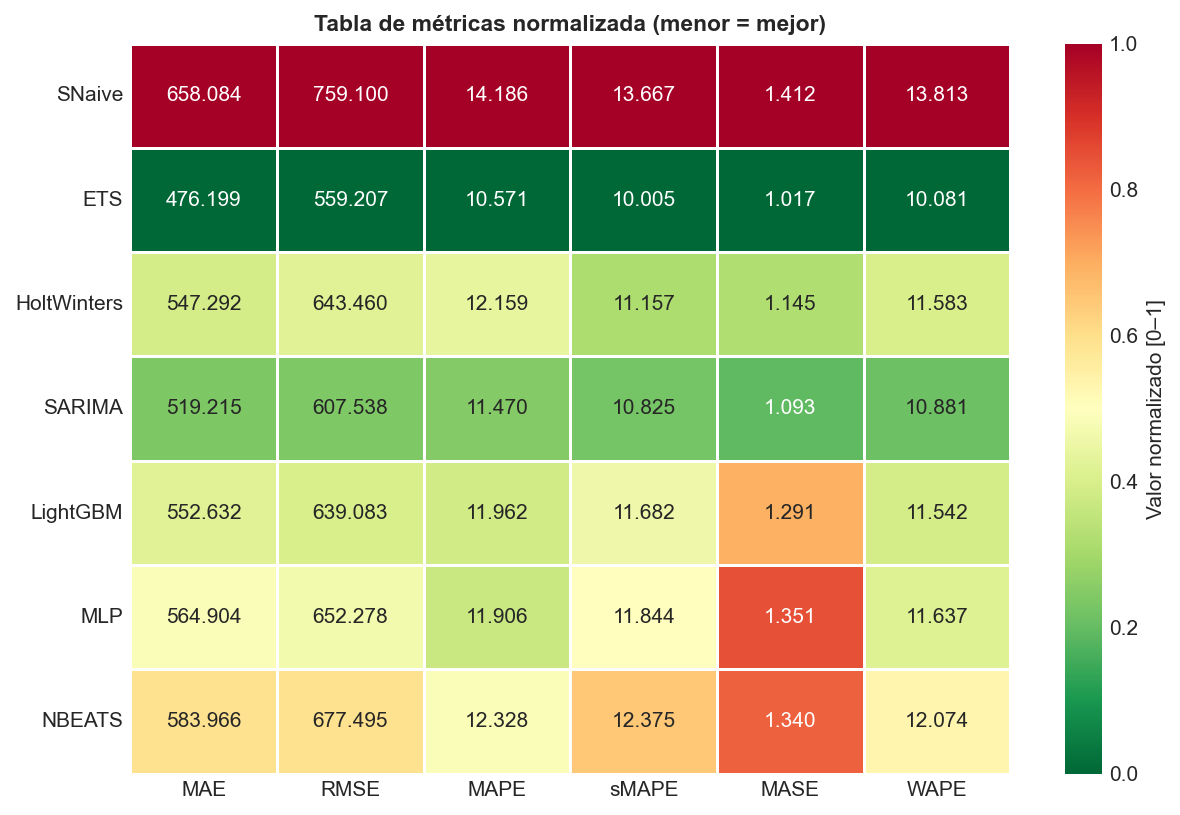
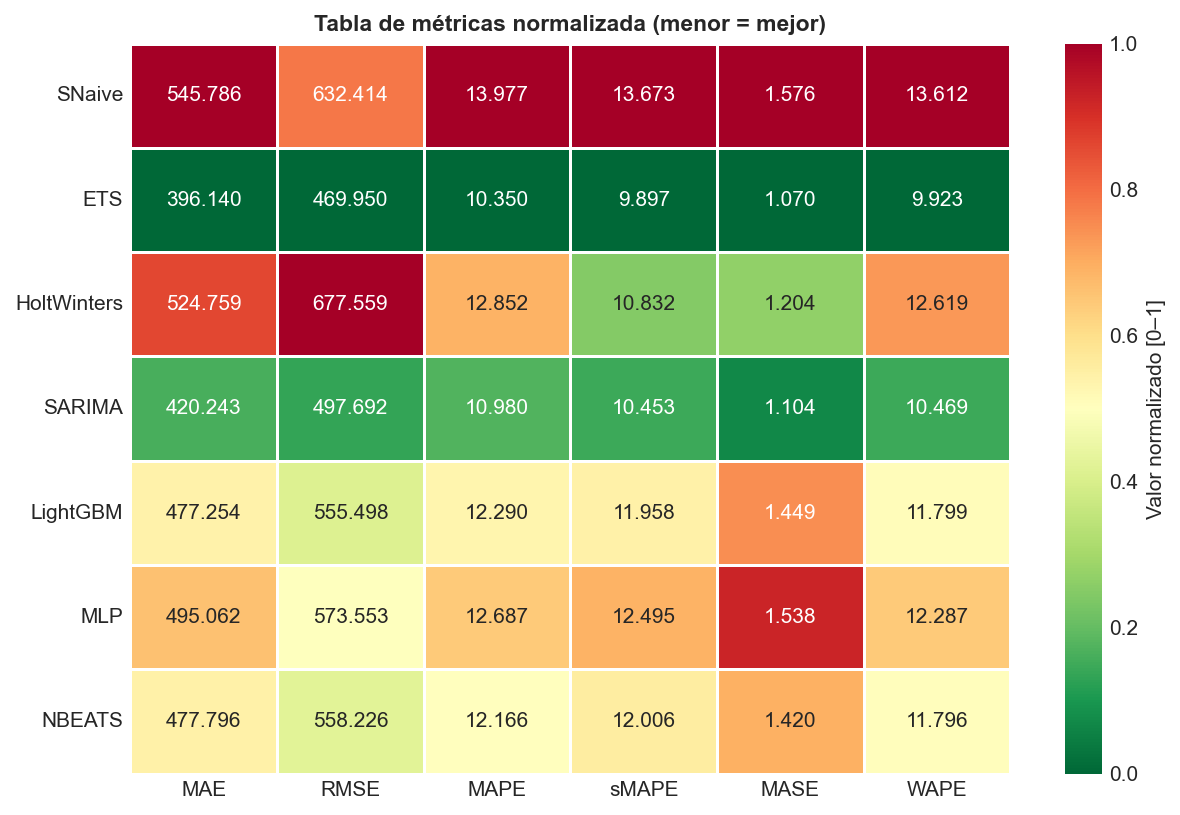
Entrega 3: bootstrap CI, n_series=200, figuras actualizadas y README
- src/evaluation.py: nueva función bootstrap_smape_diff_ci() — IC percentil
  bootstrap 95 % (B=1000, alpha=0.05) para la diferencia pareada por serie
  sMAPE(modelo) − sMAPE(SNaive); unidad de remuestreo: serie (N=200).
- src/config.py: n_series por defecto 200 (ajuste por coste computacional).
- run_experiment.py: integra bootstrap CI al pipeline; referencia SNaive
  dinámica (calculada desde los resultados del experimento); exporta
  results/tables/resultados_bootstrap_ci.csv automáticamente.
- results/tables/resultados_bootstrap_ci.csv: IC al 95 % para los 7 modelos;
  todos los modelos mejoran al baseline con significación estadística.
- results/figures/fig02-05.png: figuras regeneradas con N=200 series.
- README.md: tabla de resultados principales con IC bootstrap; sección de
  métricas actualizada; estructura del repositorio actualizada.
- .gitignore: excluye directorios tfm_unpacked_*, ~$*.docx y versiones
  intermedias de la memoria Word.

diff --git a/run_experiment.py b/run_experiment.py
@@ -4,7 +4,7 @@ Alternativa al notebook para entornos donde Jupyter no está disponible.
 Genera los mismos CSV y figuras que notebooks/main.ipynb.
 
 Uso:
-    python run_experiment.py [--n-series 400] [--no-dl] [--fast]
+    python run_experiment.py [--n-series 200] [--no-dl] [--fast]
 """
 
 from __future__ import annotations
@@ -26,7 +26,7 @@ from tqdm import tqdm
 from src.config import CONFIG, SEED, TABLES_DIR, FIGURES_DIR
 from src.utils import set_global_seed, get_logger
 from src.backtesting import generate_folds, split_series, verify_no_leakage
-from src.evaluation import compute_all
+from src.evaluation import compute_all, bootstrap_smape_diff_ci
 from src.data_loader import load_m4_finance
 from src.preprocessor import (
     filter_by_min_length, stratified_subsample,
@@ -218,9 +218,10 @@ def main():
             print(f"  {m}={row[m+'_mean']:.3f}±{row[m+'_std']:.3f}", end="")
         print()
 
-    # Criterios de éxito
-    SNAVE_REF = 14.45
-    print(f"\n=== CRITERIOS DE ÉXITO (referencia SNaive: {SNAVE_REF}%) ===\n")
+    # Criterios de éxito — referencia dinámica desde los resultados del experimento
+    snv_row = numeric_summary[numeric_summary["model"] == "SNaive"]
+    SNAVE_REF = float(snv_row["sMAPE_mean"].values[0]) if len(snv_row) > 0 else float("nan")
+    print(f"\n=== CRITERIOS DE ÉXITO (referencia SNaive: {SNAVE_REF:.3f}%) ===\n")
     print(f"{'Modelo':<15} {'sMAPE':>9} {'Delta(pp)':>10} {'MASE':>8} {'CV%':>7} {'Supera?':>9}")
     print("-" * 60)
     for _, row in numeric_summary.iterrows():
@@ -231,6 +232,61 @@ def main():
         cv = s_std / s_mean * 100 if s_mean > 0 else float("nan")
         supera = "SÍ" if diff >= 1.0 else ("marginal" if diff > 0 else "NO")
         print(f"{row['model']:<15} {s_mean:>9.3f} {diff:>+8.3f} {mase:>8.3f} {cv:>7.1f} {supera:>9}")
+
+    # Bootstrap CI al 95 % — diferencia pareada por serie: sMAPE(modelo) − sMAPE(SNaive)
+    # Unidad de remuestreo: serie (N=200). Método: percentil bootstrap, B=1000, SEED=42.
+    logger.info("Calculando IC bootstrap (B=1000, alpha=0.05)...")
+
+    def _series_smape_means(df: pd.DataFrame, model: str) -> pd.Series:
+        """sMAPE medio por serie para un modelo dado."""
+        sub = df[df["model"] == model][["series_idx", "sMAPE"]].dropna()
+        return sub.groupby("series_idx")["sMAPE"].mean()
+
+    snv_means = _series_smape_means(df_all, "SNaive")
+    bootstrap_rows = []
+    for model in present:
+        if model == "SNaive":
+            bootstrap_rows.append({
+                "model": model,
+                "diff_mean": 0.0,
+                "ci_lower": 0.0,
+                "ci_upper": 0.0,
+                "significant": False,
+                "n_series": len(snv_means),
+            })
+            continue
+        model_means = _series_smape_means(df_all, model)
+        common_idx = snv_means.index.intersection(model_means.index)
+        if len(common_idx) < 2:
+            logger.warning("  %s: series comunes insuficientes para bootstrap (%d)", model, len(common_idx))
+            continue
+        ci = bootstrap_smape_diff_ci(
+            model_means[common_idx].values,
+            snv_means[common_idx].values,
+            B=1000,
+            alpha=0.05,
+            seed=SEED,
+        )
+        ci["model"] = model
+        bootstrap_rows.append(ci)
+        sign_str = "SIGNIFICATIVO" if ci["significant"] else "no significativo"
+        logger.info(
+            "  %s: diff=%.3f pp  IC95=[%.3f, %.3f]  %s",
+            model, ci["diff_mean"], ci["ci_lower"], ci["ci_upper"], sign_str,
+        )
+
+    df_bootstrap = pd.DataFrame(bootstrap_rows)[
+        ["model", "diff_mean", "ci_lower", "ci_upper", "significant", "n_series"]
+    ]
+    df_bootstrap.to_csv(TABLES_DIR / "resultados_bootstrap_ci.csv", index=False)
+    logger.info("Bootstrap CI exportado a: %s", TABLES_DIR / "resultados_bootstrap_ci.csv")
+
+    print("\n=== INTERVALOS DE CONFIANZA BOOTSTRAP al 95 % (modelo - SNaive, pp) ===\n")
+    print(f"{'Modelo':<15} {'Diff(pp)':>10} {'IC_lower':>10} {'IC_upper':>10} {'Significativo':>14}")
+    print("-" * 65)
+    for _, row in df_bootstrap.iterrows():
+        sig = "SÍ" if row["significant"] else "NO"
+        print(f"{row['model']:<15} {row['diff_mean']:>+10.3f} {row['ci_lower']:>+10.3f} {row['ci_upper']:>+10.3f} {sig:>14}")
 
     # Generar figuras
     logger.info("Generando figuras...")

diff --git a/src/evaluation.py b/src/evaluation.py
@@ -162,6 +162,84 @@ def wape(y_true: ArrayLike, y_pred: ArrayLike) -> float:
     return float(np.sum(np.abs(yt - yp)) / total * 100.0)
 
 
+def bootstrap_smape_diff_ci(
+    smape_model: ArrayLike,
+    smape_reference: ArrayLike,
+    B: int = 1000,
+    alpha: float = 0.05,
+    seed: int | None = None,
+) -> dict[str, float]:
+    r"""IC bootstrap percentil para la diferencia media sMAPE(modelo) − sMAPE(referencia).
+
+    Calcula el intervalo de confianza al nivel ``1 − alpha`` mediante el método
+    de percentil bootstrap (Efron & Tibshirani, 1993) sobre la diferencia pareada
+    por serie entre el modelo evaluado y la referencia (Seasonal Naïve).
+
+    Cada elemento de las entradas representa la media del sMAPE de una serie a
+    través de todos sus folds del walk-forward, de modo que la unidad de
+    remuestreo es la serie (N = 200) y se preserva la estructura pareada del
+    experimento.
+
+    Valores negativos de ``diff_mean`` indican que el modelo mejora a la
+    referencia; positivos indican deterioro.
+
+    Args:
+        smape_model: Array 1-D con el sMAPE medio por serie del modelo candidato.
+        smape_reference: Array 1-D con el sMAPE medio por serie de la referencia
+            (Seasonal Naïve). Debe tener la misma longitud que ``smape_model``.
+        B: Número de remuestras bootstrap. Por defecto 1 000.
+        alpha: Nivel de significación bilateral. Por defecto 0.05 (IC al 95 %).
+        seed: Semilla para ``np.random.default_rng``, garantizando reproducibilidad.
+
+    Returns:
+        Diccionario con las claves:
+
+        - ``diff_mean``: diferencia media observada (modelo − referencia).
+        - ``ci_lower``: límite inferior del IC bootstrap percentil.
+        - ``ci_upper``: límite superior del IC bootstrap percentil.
+        - ``significant``: ``True`` si el IC no contiene el cero, lo que indica
+          diferencia estadísticamente significativa al nivel ``alpha``.
+        - ``n_series``: número de series pareadas usadas en el análisis.
+
+    Raises:
+        ValueError: Si los arrays tienen longitudes distintas o están vacíos.
+
+    References:
+        Efron, B., & Tibshirani, R. J. (1993). *An Introduction to the Bootstrap*.
+        Chapman & Hall/CRC. (cap. 13, método de percentil).
+    """
+    m = np.asarray(smape_model, dtype=float).ravel()
+    r = np.asarray(smape_reference, dtype=float).ravel()
+
+    if m.size == 0 or r.size == 0:
+        raise ValueError("Los arrays de sMAPE no pueden estar vacíos.")
+    if m.shape != r.shape:
+        raise ValueError(
+            f"smape_model y smape_reference deben tener la misma longitud; "
+            f"se recibió {m.shape} y {r.shape}."
+        )
+
+    diffs = m - r
+    n = len(diffs)
+    observed_mean = float(np.mean(diffs))
+
+    rng = np.random.default_rng(seed)
+    # Vectorizado: shape (B, n) → evita bucle Python explícito
+    indices = rng.integers(0, n, size=(B, n))
+    boot_means = diffs[indices].mean(axis=1)
+
+    ci_lower = float(np.percentile(boot_means, 100.0 * alpha / 2.0))
+    ci_upper = float(np.percentile(boot_means, 100.0 * (1.0 - alpha / 2.0)))
+
+    return {
+        "diff_mean": observed_mean,
+        "ci_lower": ci_lower,
+        "ci_upper": ci_upper,
+        "significant": bool(ci_upper < 0.0 or ci_lower > 0.0),
+        "n_series": n,
+    }
+
+
 def error_contribution(
     abs_errors_by_group: Mapping[str, float],
 ) -> dict[str, float]:

diff --git a/src/config.py b/src/config.py
@@ -66,7 +66,7 @@ class ExperimentConfig:
     initial_train: int = 54
     step: int = 12
     window: str = "expanding"
-    n_series: int | None = 400
+    n_series: int | None = 200
     category: str = "Finance"
     frequency: str = "Monthly"
 

diff --git a/README.md b/README.md
@@ -19,7 +19,7 @@ Máster Universitario en Inteligencia Artificial
 
 ## Descripción
 
-Este repositorio contiene el código, los resultados y la memoria LaTeX del TFM cuyo objetivo es comparar el desempeño de distintas familias de modelos de pronóstico —desde métodos estadísticos clásicos hasta arquitecturas de aprendizaje profundo— aplicados a series temporales financieras mensuales del dataset M4, bajo un protocolo de backtesting temporal con ventanas móviles (*walk-forward*) y un conjunto de métricas estadísticas y de impacto económico.
+Este repositorio contiene el código, los resultados y la memoria académica del TFM cuyo objetivo es comparar el desempeño de distintas familias de modelos de pronóstico —desde métodos estadísticos clásicos hasta arquitecturas de aprendizaje profundo— aplicados a series temporales financieras mensuales del dataset M4, bajo un protocolo de backtesting temporal con ventanas móviles (*walk-forward*) y un conjunto de métricas estadísticas y de impacto económico. Los resultados incluyen intervalos de confianza bootstrap al 95 % (B = 1 000, método percentil) para verificar la significación estadística de las diferencias entre modelos.
 
 ---
 
@@ -40,7 +40,7 @@ tfm_FP-A/
 │   ├── data_loader.py           # Descarga con caché del M4 Financial Monthly
 │   ├── preprocessor.py          # Filtrado y submuestra estratificada
 │   ├── backtesting.py           # Motor walk-forward + verificador de leakage
-│   ├── evaluation.py            # Seis métricas de evaluación validadas
+│   ├── evaluation.py            # Seis métricas de evaluación + bootstrap_smape_diff_ci()
 │   ├── visualization.py         # Generación de las cinco figuras del experimento
 │   └── models/
 │       ├── base.py              # Interfaces BaseForecaster / GlobalBaseForecaster
@@ -56,27 +56,23 @@ tfm_FP-A/
 │   └── test_backtesting.py      # 6 pruebas: leakage, geometría, rolling/expanding
 │
 ├── results/
-│   ├── tables/                  # CSV con resultados numéricos
-│   └── figures/                 # PNG de las figuras del experimento (fig01-fig05)
+│   ├── tables/
+│   │   ├── resultados_comparativa.csv     # Métricas medias por modelo (7 modelos × 6 métricas)
+│   │   ├── resultados_bootstrap_ci.csv    # IC bootstrap 95 % (modelo − SNaive, B=1000, N=200)
+│   │   └── resultados_detalle.csv         # Resultados por serie y fold
+│   └── figures/                           # PNG de las cinco figuras del experimento
 │
-├── memoria/                     # Documento académico LaTeX
-│   ├── main.tex                 # Archivo principal
-│   ├── referencias.bib          # Bibliografía APA verificada (17 referencias)
-│   ├── main.pdf                 # Memoria compilada (entregable)
-│   ├── TFM_Entrega2.docx        # Exportación Word (entregable)
-│   ├── figuras/                 # Figuras propias (diagrama de pipeline)
-│   └── capitulos/               # Un .tex por capítulo
-│       ├── resumen.tex
-│       ├── organizacion.tex
-│       ├── cap1_introduccion.tex
-│       ├── cap2_contexto.tex
-│       ├── cap3_objetivos.tex
-│       ├── cap4_planteamiento.tex
-│       ├── cap5_resultados.tex
-│       ├── cap6_discusion.tex
-│       ├── cap7_conclusiones.tex
-│       ├── anexo_a.tex
-│       └── acronimos.tex
+├── Memoria/                               # Documento académico (Word)
+│   └── Versiones y Entregas/
+│       └── Entrega_3/
+│           └── TFM_Entrega3_v15.docx      # Memoria final — Entrega 3 (entregable)
+│
+├── memoria/                               # Fuente LaTeX histórica (referencia)
+│   ├── main.tex
+│   ├── referencias.bib
+│   ├── main.pdf
+│   ├── figuras/
+│   └── capitulos/
 │
 ├── Codigo/
 │   └── TFE.ipynb                # Notebook exploratorio original (referencia histórica)
@@ -101,36 +97,14 @@ pip install -r requirements.txt
 python run_experiment.py --n-series 200 --max-folds 5
 ```
 
-Los datos del M4 se descargan automáticamente en `data/raw/` en la primera ejecución.
+Los datos del M4 se descargan automáticamente en `data/raw/` en la primera ejecución.  
+El script genera automáticamente `results/tables/resultados_bootstrap_ci.csv` con los intervalos de confianza bootstrap al 95 % para cada modelo frente a Seasonal Naïve.
 
-### 3. Actualizar la memoria LaTeX con los resultados
-
-```bash
-python update_results_latex.py
-```
-
-### 4. Ejecutar las pruebas automatizadas
+### 3. Ejecutar las pruebas automatizadas
 
 ```bash
 python tests/test_evaluation.py
 python tests/test_backtesting.py
-```
-
-### 5. Compilar la memoria LaTeX
-
-Requiere MiKTeX o TeX Live con XeLaTeX y Biber (y la fuente Calibri instalada en el sistema).
-
-```bash
-cd memoria
-xelatex main.tex && biber main && xelatex main.tex && xelatex main.tex
-```
-
-### 6. Exportar la memoria a Word
-
-```bash
-bash export_to_word.sh
-# o:
-python export_to_word.py
 ```
 
 ---
@@ -162,7 +136,24 @@ Licencia: MIT (acceso público)
 ## Métricas de evaluación
 
 **Estadísticas:** MAE, RMSE, MAPE, sMAPE (estándar M4), MASE  
-**Impacto económico:** WAPE, contribución al error por decil de volumen
+**Impacto económico:** WAPE, contribución al error por decil de volumen  
+**Inferencia estadística:** IC bootstrap percentil 95 % (B = 1 000) para diferencia sMAPE(modelo) − sMAPE(SNaive), unidad de remuestreo = serie (N = 200), pareado por serie a través de los folds
+
+---
+
+## Resultados principales (N = 200 series, max\_folds = 5, SEED = 42)
+
+| Modelo | sMAPE (%) | WAPE (%) | MASE | Diff vs SNaive (pp) | IC 95 % | Significativo |
+|---|---|---|---|---|---|---|
+| **ETS** | **10.005** | **10.081** | **1.017** | **−3.852** | [−4.517, −3.264] | Sí |
+| SARIMA | 10.825 | 10.881 | 1.093 | −3.154 | [−3.945, −2.481] | Sí |
+| Holt-Winters | 11.157 | 11.583 | 1.145 | −2.725 | [−3.515, −2.028] | Sí |
+| LightGBM | 11.682 | 11.542 | 1.291 | −1.998 | [−2.572, −1.447] | Sí |
+| MLP | 11.844 | 11.637 | 1.351 | −1.898 | [−2.453, −1.322] | Sí |
+| N-BEATS | 12.375 | 12.074 | 1.340 | −1.065 | [−1.509, −0.596] | Sí |
+| SNaive | 13.667 | 13.813 | 1.412 | 0.000 | — | — |
+
+ETS (AutoETS) es el mejor modelo en las seis métricas. Todos los modelos superan al baseline de forma estadísticamente significativa (IC 95 % no contiene el cero).
 
 ---
 
